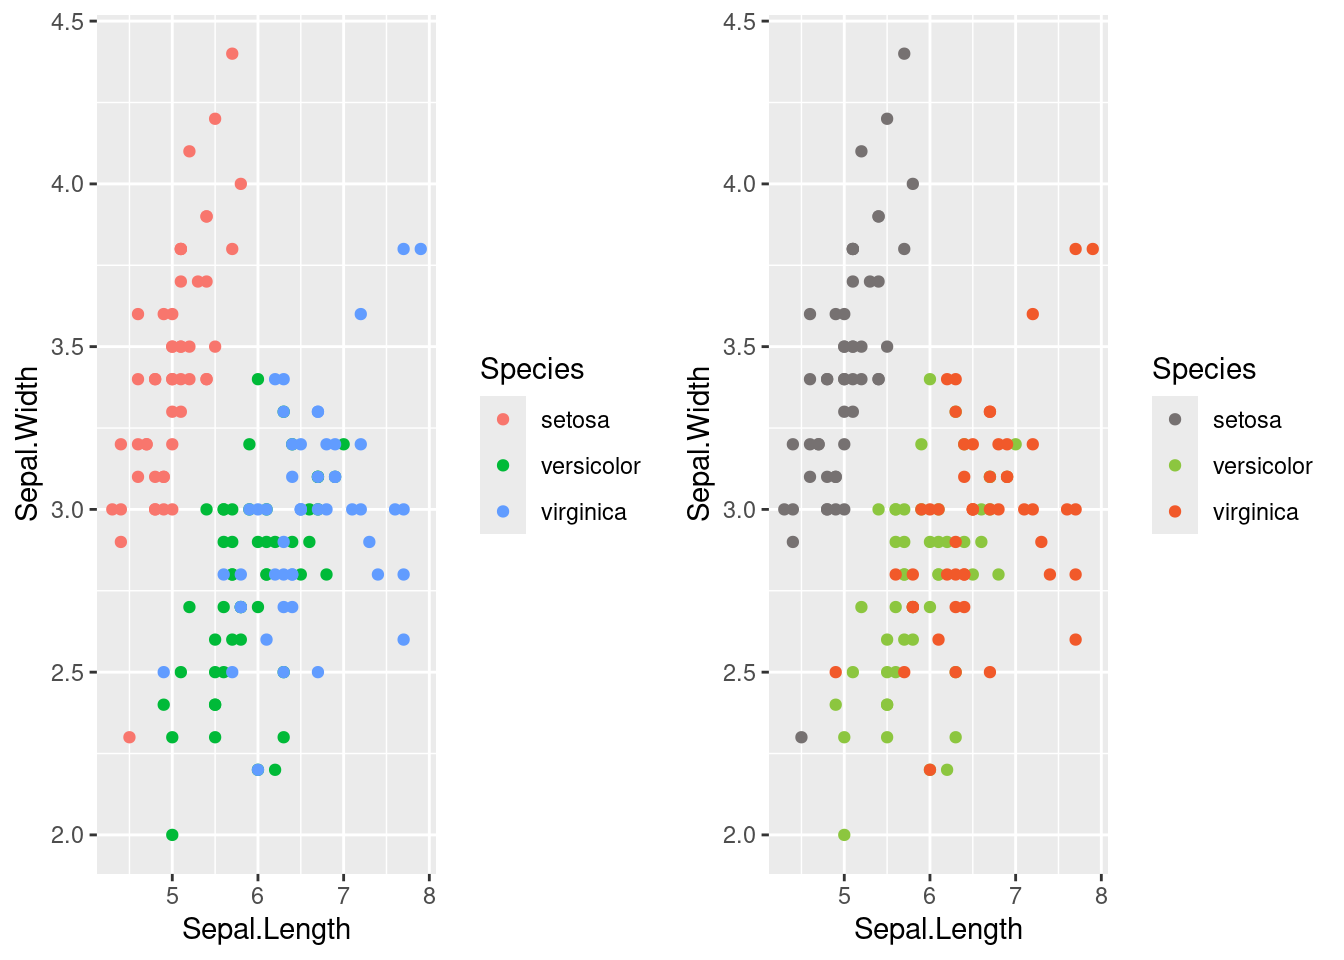
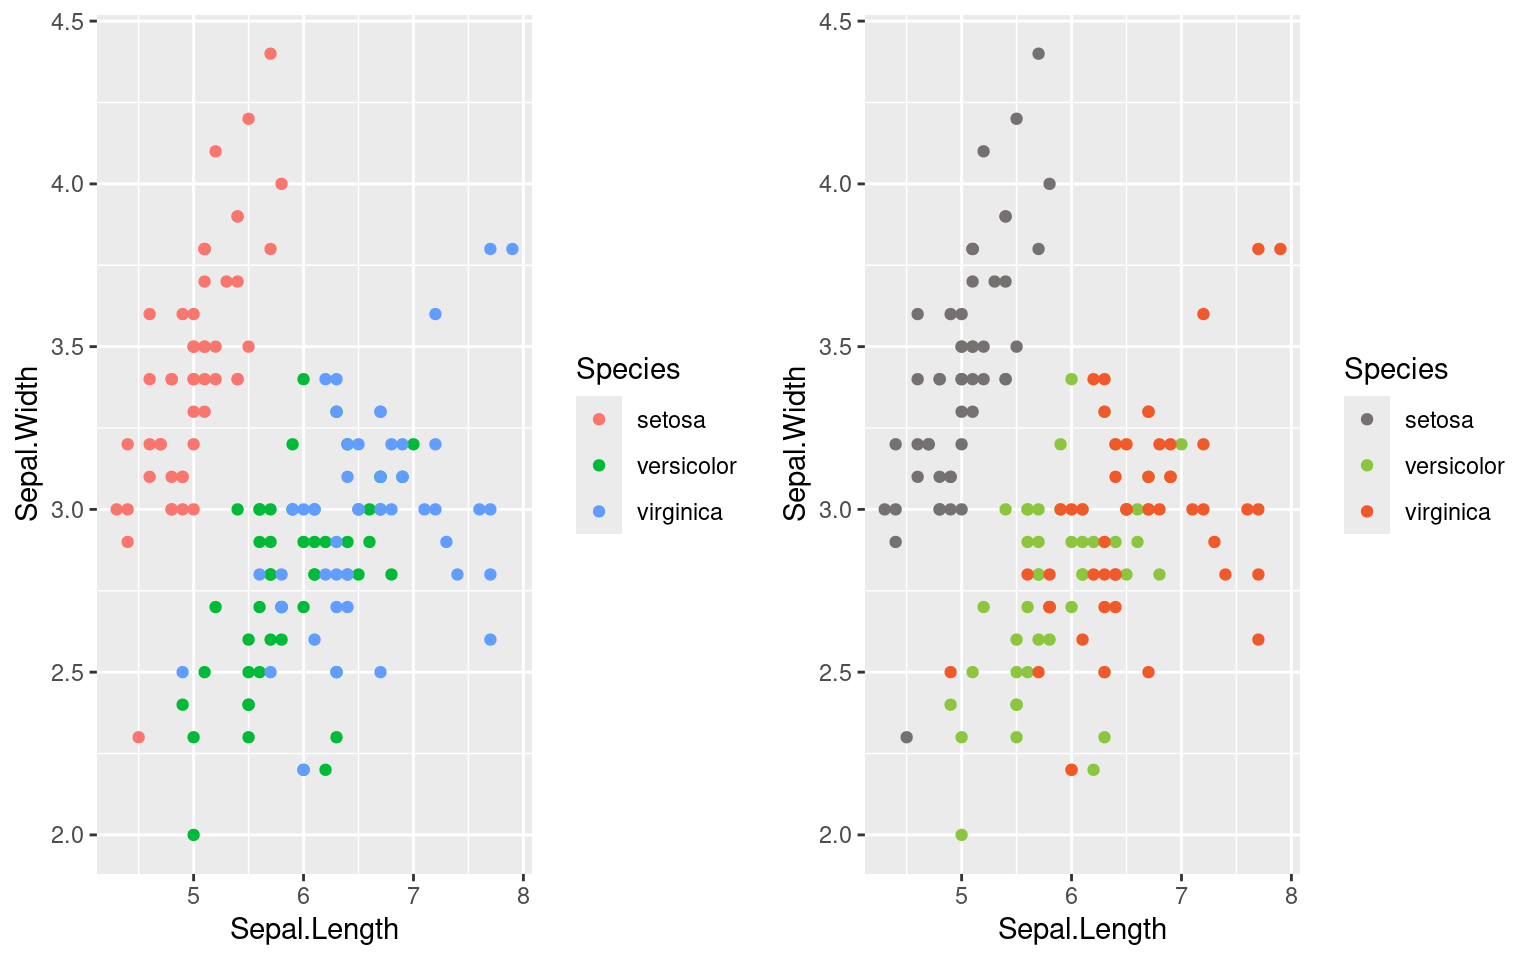
new sections

diff --git a/docs/index.html b/docs/index.html
@@ -181,6 +181,8 @@ code span.wa { color: #60a0b0; font-weight: bold; font-style: italic; } /* Warni
   <li><a href="#changing-the-color-palette" id="toc-changing-the-color-palette" class="nav-link" data-scroll-target="#changing-the-color-palette">Changing the Color Palette</a></li>
   <li><a href="#themes" id="toc-themes" class="nav-link" data-scroll-target="#themes">Themes</a></li>
   </ul></li>
+  <li><a href="#reusing-ggplot2-objects" id="toc-reusing-ggplot2-objects" class="nav-link" data-scroll-target="#reusing-ggplot2-objects">Reusing ggplot2 objects</a></li>
+  <li><a href="#defining-functions-to-work-with-ggplot2-options" id="toc-defining-functions-to-work-with-ggplot2-options" class="nav-link" data-scroll-target="#defining-functions-to-work-with-ggplot2-options">Defining functions to work with ggplot2 options</a></li>
   </ul></li>
   </ul>
 </nav>
@@ -229,12 +231,12 @@ code span.wa { color: #60a0b0; font-weight: bold; font-style: italic; } /* Warni
 <div class="sourceCode cell-code" id="cb3"><pre class="sourceCode r code-with-copy"><code class="sourceCode r"><span id="cb3-1"><a href="#cb3-1" aria-hidden="true" tabindex="-1"></a><span class="fu">ggplot</span>(iris, <span class="fu">aes</span>(<span class="at">x =</span> Sepal.Length, <span class="at">y =</span> Sepal.Width)) <span class="sc">+</span></span>
 <span id="cb3-2"><a href="#cb3-2" aria-hidden="true" tabindex="-1"></a>  <span class="fu">geom_point</span>()</span></code><button title="Copy to Clipboard" class="code-copy-button"><i class="bi"></i></button></pre></div>
 <div class="cell-output-display">
-<p><img src="index_files/figure-html/unnamed-chunk-4-1.png" class="img-fluid" width="672"></p>
+<p><img src="index_files/figure-html/unnamed-chunk-4-1.png" class="img-fluid" width="768"></p>
 </div>
 </div>
 <section id="important-_geoms" class="level3">
 <h3 class="anchored" data-anchor-id="important-_geoms">Important <code>_geoms()</code></h3>
-<p>The table below serves as a guide to which <code>_geoms</code> are useful.</p>
+<p>The table below serves as a guide as to which <code>_geoms</code> are useful.</p>
 <div class="cell">
 <div class="cell-output-display">
 
@@ -249,17 +251,17 @@ code span.wa { color: #60a0b0; font-weight: bold; font-style: italic; } /* Warni
 <tbody>
   <tr>
    <td style="text-align:left;"> geom_point </td>
-   <td style="text-align:left;"> plots points </td>
+   <td style="text-align:left;"> plot points </td>
    <td style="text-align:left;"> size </td>
   </tr>
   <tr>
    <td style="text-align:left;"> geom_ribbon </td>
-   <td style="text-align:left;"> plots an area between points </td>
+   <td style="text-align:left;"> plot an area between points </td>
    <td style="text-align:left;"> alpha, linetype </td>
   </tr>
   <tr>
    <td style="text-align:left;"> geom_col </td>
-   <td style="text-align:left;"> creates columns barplot </td>
+   <td style="text-align:left;"> create columns barplot </td>
    <td style="text-align:left;"> position </td>
   </tr>
   <tr>
@@ -269,7 +271,7 @@ code span.wa { color: #60a0b0; font-weight: bold; font-style: italic; } /* Warni
   </tr>
   <tr>
    <td style="text-align:left;"> geom_hline/_vline </td>
-   <td style="text-align:left;"> plots horizontal/vertical line </td>
+   <td style="text-align:left;"> plot horizontal/vertical line </td>
    <td style="text-align:left;"> intercept </td>
   </tr>
 </tbody>
@@ -281,15 +283,15 @@ code span.wa { color: #60a0b0; font-weight: bold; font-style: italic; } /* Warni
 </section>
 <section id="sec-factors" class="level2">
 <h2 class="anchored" data-anchor-id="sec-factors">Using Factors</h2>
-<p>It is necessary to differentiate between different datasets if they are displayed within the same graph. This can be easily done by assigning factors to data points originating from different datasets. Using the mappings <code>colour = factor.variable</code> or <code>fill = factor.variable</code> in the <code>aes()</code> function leads to colouring of the data points according to their factor. A legend is added automatically.</p>
+<p>It may be necessary to differentiate between different groups if they are displayed within the same graph. This can be easily done by assigning factors to data points belonging to different groups Using the mappings <code>colour = factor.variable</code> or <code>fill = factor.variable</code> in the <code>aes()</code> function leads to colouring of the data points according to their factor. A legend is added automatically.</p>
 <div class="cell">
 <div class="sourceCode cell-code" id="cb4"><pre class="sourceCode r code-with-copy"><code class="sourceCode r"><span id="cb4-1"><a href="#cb4-1" aria-hidden="true" tabindex="-1"></a><span class="fu">ggplot</span>(iris, <span class="fu">aes</span>(<span class="at">x =</span> Sepal.Length, <span class="at">y =</span> Sepal.Width, <span class="at">colour =</span> Species)) <span class="sc">+</span></span>
 <span id="cb4-2"><a href="#cb4-2" aria-hidden="true" tabindex="-1"></a>  <span class="fu">geom_point</span>()</span></code><button title="Copy to Clipboard" class="code-copy-button"><i class="bi"></i></button></pre></div>
 <div class="cell-output-display">
-<p><img src="index_files/figure-html/unnamed-chunk-7-1.png" class="img-fluid" width="672"></p>
+<p><img src="index_files/figure-html/unnamed-chunk-7-1.png" class="img-fluid" width="768"></p>
 </div>
 </div>
-<p>This is very powerful in settings during which data processing is performed. In the example, the confidence intervals and the fitted line of the different datasets are drawn by the same commands (<code>geom_ribbon()</code> and <code>geom_line()</code>, respectively), while colouring the fit according to the <code>colour</code> mapping and the confidence interval according to the <code>fill</code> mapping.</p>
+<p>This is very powerful in settings during which data processing is performed. In the example below, the confidence intervals and the fitted line of the different groups are drawn by the same commands (<code>geom_ribbon()</code> and <code>geom_line()</code>, respectively), while colouring the fit according to the <code>colour</code> mapping and the confidence interval according to the <code>fill</code> mapping.</p>
 <div class="cell">
 <div class="sourceCode cell-code" id="cb5"><pre class="sourceCode r code-with-copy"><code class="sourceCode r"><span id="cb5-1"><a href="#cb5-1" aria-hidden="true" tabindex="-1"></a><span class="co"># fit the data, perform prediction, join the data.frame with the corresponding</span></span>
 <span id="cb5-2"><a href="#cb5-2" aria-hidden="true" tabindex="-1"></a><span class="co"># independent variables</span></span>
@@ -307,13 +309,13 @@ code span.wa { color: #60a0b0; font-weight: bold; font-style: italic; } /* Warni
 <span id="cb5-14"><a href="#cb5-14" aria-hidden="true" tabindex="-1"></a>  <span class="fu">geom_line</span>(<span class="fu">aes</span>(<span class="at">y =</span> fit)) <span class="sc">+</span></span>
 <span id="cb5-15"><a href="#cb5-15" aria-hidden="true" tabindex="-1"></a>  <span class="fu">geom_point</span>()</span></code><button title="Copy to Clipboard" class="code-copy-button"><i class="bi"></i></button></pre></div>
 <div class="cell-output-display">
-<p><img src="index_files/figure-html/unnamed-chunk-8-1.png" class="img-fluid" width="672"></p>
+<p><img src="index_files/figure-html/unnamed-chunk-8-1.png" class="img-fluid" width="768"></p>
 </div>
 </div>
 </section>
 <section id="changing-the-appearance-of-the-plot" class="level2">
 <h2 class="anchored" data-anchor-id="changing-the-appearance-of-the-plot">Changing the Appearance of the Plot</h2>
-<p><code>scale_</code> act on the appearance of the plot. They can change the way axes are displayed or how colors are applied to the plotted data, for example.</p>
+<p><code>scale_</code> acts on the appearance of the plot. It can change the way axes are displayed or how colors are applied to the plotted data, for example.</p>
 <section id="changing-the-axes" class="level3">
 <h3 class="anchored" data-anchor-id="changing-the-axes">Changing the Axes</h3>
 <p>Common functions to alter the axes are (for the x-axis, replace with y for the y-axis):</p>
@@ -323,10 +325,10 @@ code span.wa { color: #60a0b0; font-weight: bold; font-style: italic; } /* Warni
 </ul>
 <p>They take, among others, the following options:</p>
 <ul>
-<li><code>limits</code> range of values plotted</li>
-<li><code>breaks</code> ticks displayed</li>
-<li><code>expand</code> additional space before/after the plotted data</li>
-<li><code>guide</code> can add minor ticks, among others</li>
+<li><code>limits</code> - range of values plotted</li>
+<li><code>breaks</code> - ticks displayed</li>
+<li><code>expand</code> - additional space before/after the plotted data</li>
+<li><code>guide</code> - can add minor ticks, among others</li>
 </ul>
 <div class="cell">
 <div class="sourceCode cell-code" id="cb6"><pre class="sourceCode r code-with-copy"><code class="sourceCode r"><span id="cb6-1"><a href="#cb6-1" aria-hidden="true" tabindex="-1"></a><span class="fu">library</span>(ggprism)</span>
@@ -342,7 +344,7 @@ code span.wa { color: #60a0b0; font-weight: bold; font-style: italic; } /* Warni
 <span id="cb6-11"><a href="#cb6-11" aria-hidden="true" tabindex="-1"></a></span>
 <span id="cb6-12"><a href="#cb6-12" aria-hidden="true" tabindex="-1"></a><span class="fu">plot_grid</span>(g1, g2)</span></code><button title="Copy to Clipboard" class="code-copy-button"><i class="bi"></i></button></pre></div>
 <div class="cell-output-display">
-<p><img src="index_files/figure-html/unnamed-chunk-9-1.png" class="img-fluid" width="672"></p>
+<p><img src="index_files/figure-html/unnamed-chunk-9-1.png" class="img-fluid" width="768"></p>
 </div>
 </div>
 </section>
@@ -367,15 +369,79 @@ code span.wa { color: #60a0b0; font-weight: bold; font-style: italic; } /* Warni
 <span id="cb7-15"><a href="#cb7-15" aria-hidden="true" tabindex="-1"></a></span>
 <span id="cb7-16"><a href="#cb7-16" aria-hidden="true" tabindex="-1"></a><span class="fu">plot_grid</span>(g1, g2)</span></code><button title="Copy to Clipboard" class="code-copy-button"><i class="bi"></i></button></pre></div>
 <div class="cell-output-display">
-<p><img src="index_files/figure-html/unnamed-chunk-10-1.png" class="img-fluid" width="672"></p>
+<p><img src="index_files/figure-html/unnamed-chunk-10-1.png" class="img-fluid" width="768"></p>
 </div>
 </div>
 </section>
 <section id="themes" class="level3">
 <h3 class="anchored" data-anchor-id="themes">Themes</h3>
-
-
+<p><code>theme_</code> allows to easily change the appearance of a plot using pre-defined settings. Available themes are:</p>
+<ul>
+<li><code>_gray()</code></li>
+<li><code>_bw()</code></li>
+<li><code>_linedraw()</code></li>
+<li><code>_light()</code></li>
+<li><code>_dark()</code></li>
+<li><code>_minimal()</code></li>
+<li><code>_classic()</code></li>
+</ul>
+<p>These themes can be further modified, or new themes can be created, using the <code>theme()</code> function.</p>
+<div class="cell">
+<div class="sourceCode cell-code" id="cb8"><pre class="sourceCode r code-with-copy"><code class="sourceCode r"><span id="cb8-1"><a href="#cb8-1" aria-hidden="true" tabindex="-1"></a>g1 <span class="ot">&lt;-</span> <span class="fu">ggplot</span>(iris, <span class="fu">aes</span>(<span class="at">x =</span> Sepal.Length, <span class="at">y =</span> Sepal.Width, <span class="at">colour =</span> Species)) <span class="sc">+</span></span>
+<span id="cb8-2"><a href="#cb8-2" aria-hidden="true" tabindex="-1"></a>  <span class="fu">geom_point</span>()</span>
+<span id="cb8-3"><a href="#cb8-3" aria-hidden="true" tabindex="-1"></a></span>
+<span id="cb8-4"><a href="#cb8-4" aria-hidden="true" tabindex="-1"></a>g2 <span class="ot">&lt;-</span> <span class="fu">ggplot</span>(iris, <span class="fu">aes</span>(<span class="at">x =</span> Sepal.Length, <span class="at">y =</span> Sepal.Width, <span class="at">colour =</span> Species)) <span class="sc">+</span></span>
+<span id="cb8-5"><a href="#cb8-5" aria-hidden="true" tabindex="-1"></a>  <span class="fu">geom_point</span>() <span class="sc">+</span></span>
+<span id="cb8-6"><a href="#cb8-6" aria-hidden="true" tabindex="-1"></a>  <span class="fu">theme_linedraw</span>()</span>
+<span id="cb8-7"><a href="#cb8-7" aria-hidden="true" tabindex="-1"></a></span>
+<span id="cb8-8"><a href="#cb8-8" aria-hidden="true" tabindex="-1"></a><span class="fu">plot_grid</span>(g1, g2)</span></code><button title="Copy to Clipboard" class="code-copy-button"><i class="bi"></i></button></pre></div>
+<div class="cell-output-display">
+<p><img src="index_files/figure-html/unnamed-chunk-11-1.png" class="img-fluid" width="768"></p>
+</div>
+</div>
 </section>
+</section>
+<section id="reusing-ggplot2-objects" class="level2">
+<h2 class="anchored" data-anchor-id="reusing-ggplot2-objects">Reusing ggplot2 objects</h2>
+<p>It may be useful to save several <code>ggplot2</code> objects like <code>geom_</code>, <code>scale_</code>, and <code>theme_</code> to use them for multiple plots. This can be achieved by saving the objects in a <code>list</code> and adding it to <code>ggplot()</code> using the <code>+</code> sign.</p>
+<div class="cell">
+<div class="sourceCode cell-code" id="cb9"><pre class="sourceCode r code-with-copy"><code class="sourceCode r"><span id="cb9-1"><a href="#cb9-1" aria-hidden="true" tabindex="-1"></a>changes <span class="ot">&lt;-</span> <span class="fu">list</span>(</span>
+<span id="cb9-2"><a href="#cb9-2" aria-hidden="true" tabindex="-1"></a>  <span class="fu">geom_point</span>(),</span>
+<span id="cb9-3"><a href="#cb9-3" aria-hidden="true" tabindex="-1"></a>  <span class="fu">theme_linedraw</span>(),</span>
+<span id="cb9-4"><a href="#cb9-4" aria-hidden="true" tabindex="-1"></a>  <span class="fu">ggtitle</span>(<span class="st">'scatter plot'</span>)</span>
+<span id="cb9-5"><a href="#cb9-5" aria-hidden="true" tabindex="-1"></a>)</span>
+<span id="cb9-6"><a href="#cb9-6" aria-hidden="true" tabindex="-1"></a></span>
+<span id="cb9-7"><a href="#cb9-7" aria-hidden="true" tabindex="-1"></a><span class="fu">ggplot</span>(iris, <span class="fu">aes</span>(<span class="at">x =</span> Sepal.Length, <span class="at">y =</span> Sepal.Width, <span class="at">colour =</span> Species)) <span class="sc">+</span></span>
+<span id="cb9-8"><a href="#cb9-8" aria-hidden="true" tabindex="-1"></a>  changes</span></code><button title="Copy to Clipboard" class="code-copy-button"><i class="bi"></i></button></pre></div>
+<div class="cell-output-display">
+<p><img src="index_files/figure-html/unnamed-chunk-12-1.png" class="img-fluid" width="768"></p>
+</div>
+</div>
+</section>
+<section id="defining-functions-to-work-with-ggplot2-options" class="level2">
+<h2 class="anchored" data-anchor-id="defining-functions-to-work-with-ggplot2-options">Defining functions to work with ggplot2 options</h2>
+<p>Some options of <code>ggplot2</code> functions allow a function as their value. The required input values are defined in the help file of the function.</p>
+<div class="cell">
+<div class="sourceCode cell-code" id="cb10"><pre class="sourceCode r code-with-copy"><code class="sourceCode r"><span id="cb10-1"><a href="#cb10-1" aria-hidden="true" tabindex="-1"></a><span class="fu">library</span>(stringr) <span class="co"># for str_wrap</span></span>
+<span id="cb10-2"><a href="#cb10-2" aria-hidden="true" tabindex="-1"></a></span>
+<span id="cb10-3"><a href="#cb10-3" aria-hidden="true" tabindex="-1"></a>data <span class="ot">&lt;-</span> <span class="fu">data.frame</span>(<span class="at">description =</span> <span class="fu">c</span>(<span class="st">"a very long text that requires linebreaks"</span>, </span>
+<span id="cb10-4"><a href="#cb10-4" aria-hidden="true" tabindex="-1"></a>                                   <span class="st">'another text'</span>), </span>
+<span id="cb10-5"><a href="#cb10-5" aria-hidden="true" tabindex="-1"></a>                   <span class="at">val =</span> <span class="fu">c</span>(<span class="dv">30</span>, <span class="dv">300</span>))</span>
+<span id="cb10-6"><a href="#cb10-6" aria-hidden="true" tabindex="-1"></a></span>
+<span id="cb10-7"><a href="#cb10-7" aria-hidden="true" tabindex="-1"></a>format_label <span class="ot">&lt;-</span> <span class="cf">function</span>(x) <span class="fu">str_wrap</span>(x, <span class="at">width =</span> <span class="dv">20</span>)</span>
+<span id="cb10-8"><a href="#cb10-8" aria-hidden="true" tabindex="-1"></a>format_breaks <span class="ot">&lt;-</span> <span class="cf">function</span>(vec) <span class="fu">seq</span>(vec[<span class="dv">1</span>], vec[<span class="dv">2</span>], (vec[<span class="dv">2</span>]<span class="sc">-</span>vec[<span class="dv">1</span>])<span class="sc">/</span><span class="dv">5</span>)</span>
+<span id="cb10-9"><a href="#cb10-9" aria-hidden="true" tabindex="-1"></a></span>
+<span id="cb10-10"><a href="#cb10-10" aria-hidden="true" tabindex="-1"></a><span class="fu">ggplot</span>(data, <span class="fu">aes</span>(<span class="at">x =</span> description, <span class="at">y =</span> val)) <span class="sc">+</span></span>
+<span id="cb10-11"><a href="#cb10-11" aria-hidden="true" tabindex="-1"></a>  <span class="fu">geom_col</span>() <span class="sc">+</span></span>
+<span id="cb10-12"><a href="#cb10-12" aria-hidden="true" tabindex="-1"></a>  <span class="fu">coord_flip</span>() <span class="sc">+</span></span>
+<span id="cb10-13"><a href="#cb10-13" aria-hidden="true" tabindex="-1"></a>  <span class="fu">scale_x_discrete</span>(<span class="at">labels =</span> format_label) <span class="sc">+</span></span>
+<span id="cb10-14"><a href="#cb10-14" aria-hidden="true" tabindex="-1"></a>  <span class="fu">scale_y_continuous</span>(<span class="at">breaks =</span> format_breaks)</span></code><button title="Copy to Clipboard" class="code-copy-button"><i class="bi"></i></button></pre></div>
+<div class="cell-output-display">
+<p><img src="index_files/figure-html/unnamed-chunk-13-1.png" class="img-fluid" width="768"></p>
+</div>
+</div>
+
+
 </section>
 </section>
 
